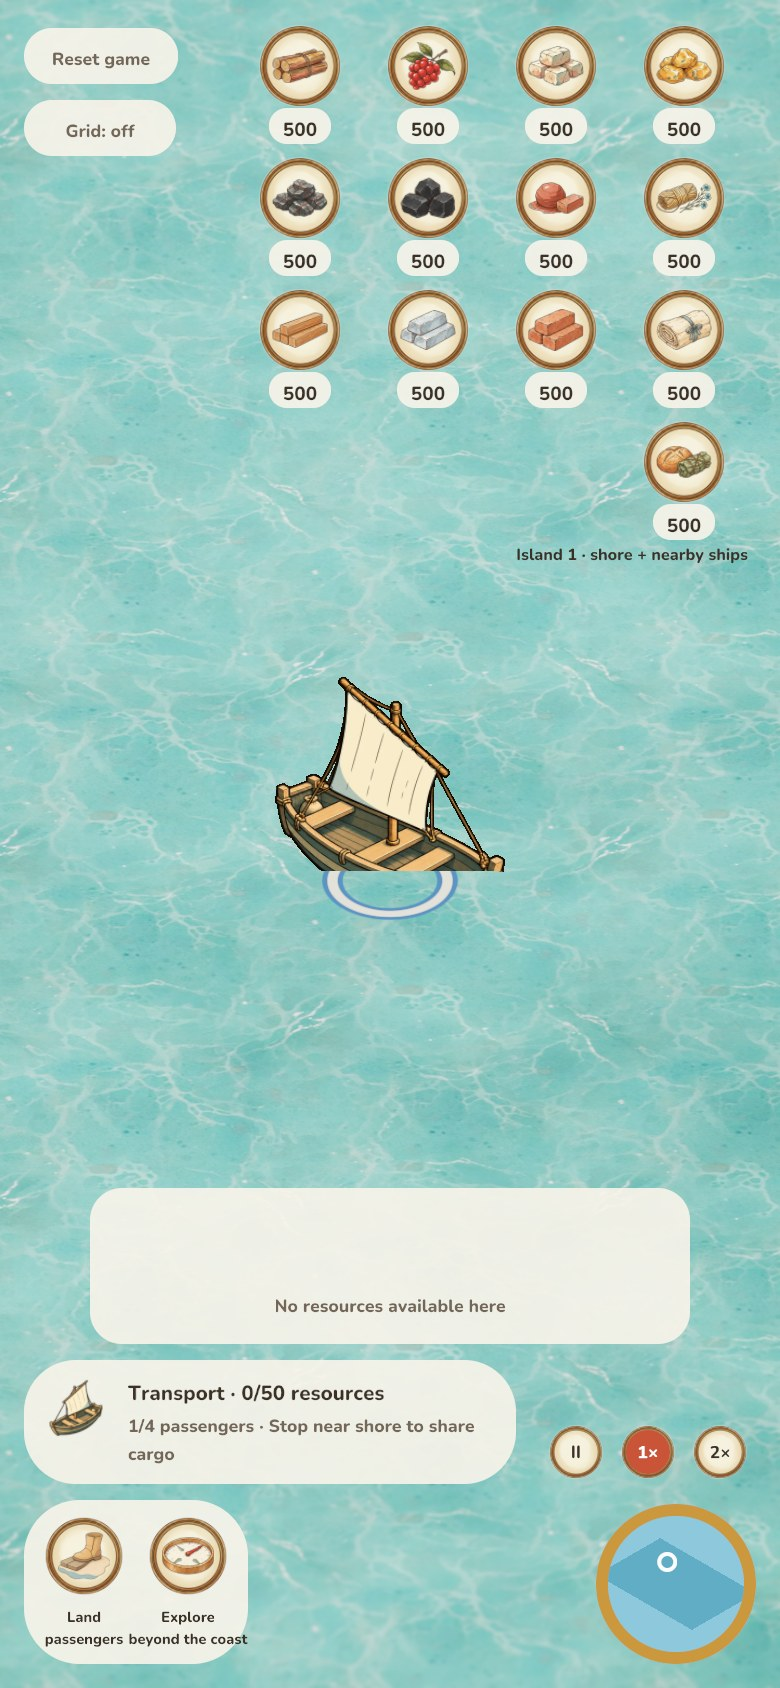
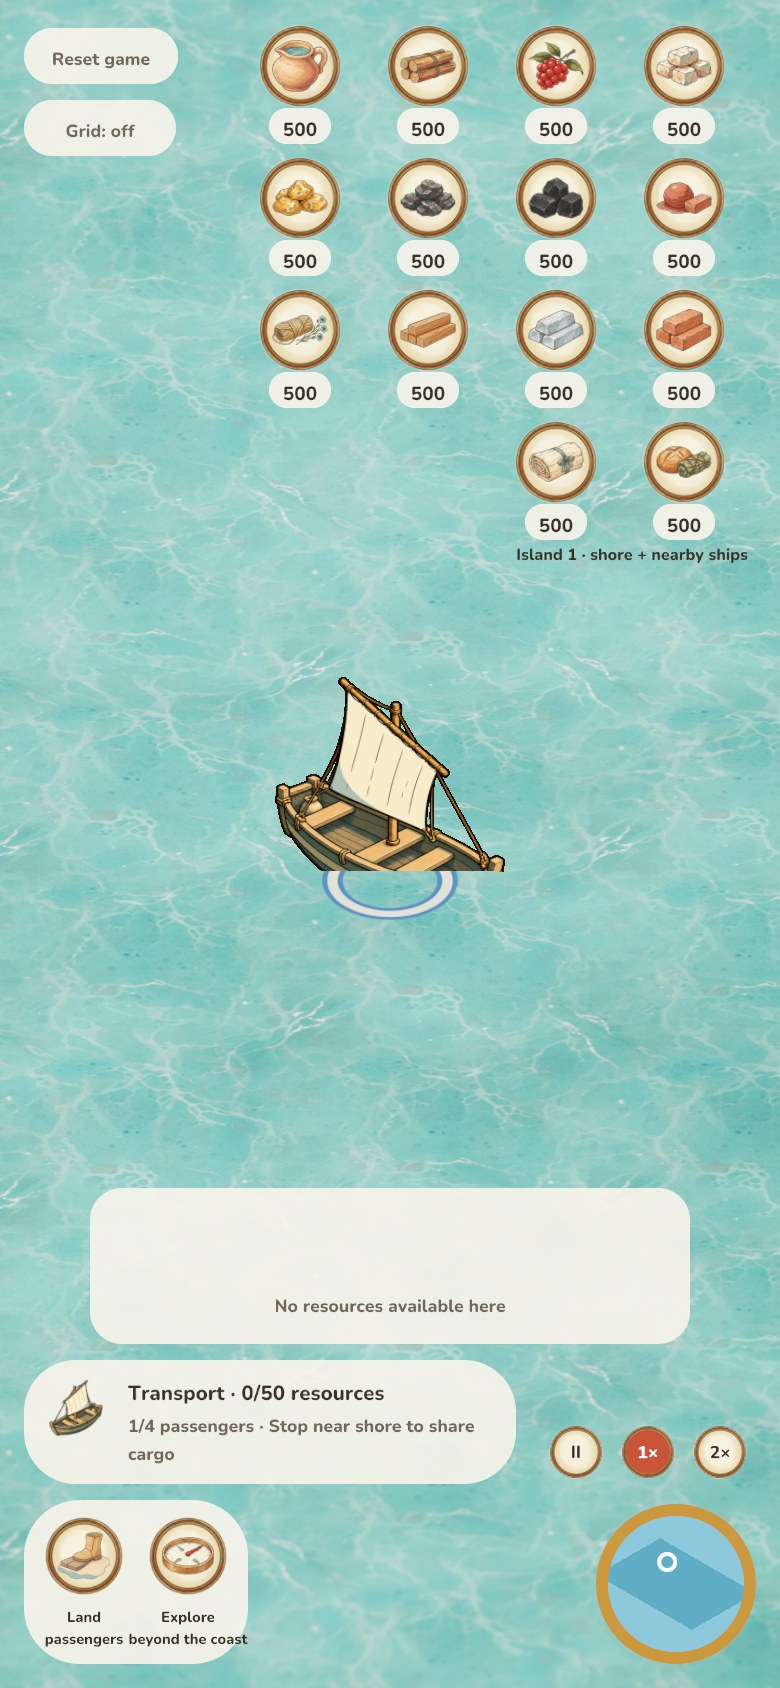
Verify refined menus with current water and HUD integration

diff --git a/OPEN_WORK.md b/OPEN_WORK.md
@@ -64,7 +64,7 @@ User explicitly authorized merging PR #130. Integrating master `faa4b04`, preser
 
 # Menu icon audit: implemented and verified
 
-- Follow-up (2026-10-06): user authorized showing and sequentially merging four simpler icons. Cargo is verified and prepared in this branch; earlier refinement PRs: none. All 289 tests, strict native/WASM lint, rebuilt current-master client, asset checks and six desktop/DPR-2 phone captures pass. Combined-preview scope and individual runtime status are recorded in [the refinement evidence](docs/verification/menu-icons/simplification/README.md) and [art ledger](assets/ui/sources/menu_icons/simplification/README.md). Production is tracked separately by the merge-triggered workflow.
+- Follow-up (2026-10-06): user authorized showing and sequentially merging the four simpler icons. Cargo [PR #137](https://github.com/koogle/age-of-agents/pull/137) integrates master `1a45e0d`, preserving riverbank water and the latest menu changes. All 293 tests, strict native/WASM lint, rebuilt client, 303-frame/icon checks and six fresh desktop/DPR-2 phone captures pass. The shared browser evidence previews all four candidate PNGs; each runtime replacement lands separately. [Evidence](docs/verification/menu-icons/simplification/README.md). Release uses the merge-triggered workflow.
 
 - User authorized dedicated menu icons and sequential PR merges. Stop #104, style enforcement #110 and all 18 individual art PRs #112–#129 are merged. Original renders, rejected drafts, prompts, request IDs and per-icon style comparisons are retained. [Audit/PR ledger](docs/MENU_ICON_AUDIT.md).
 - Integration [#107](https://github.com/koogle/age-of-agents/pull/107) wires all 20 audited fixes across resources, production/queues, specialist portraits, ship commands, categories, Back and info thumbnails. Master through `5a28839` is integrated, preserving approved productive-building availability and the granary bonus/description. This PR adds no gameplay, cost, unlock or save-model change.

diff --git a/docs/verification/menu-icons/simplification/README.md b/docs/verification/menu-icons/simplification/README.md
@@ -8,11 +8,11 @@ change. Sources and per-icon findings live in the
 
 ## Validation
 
-Base: master `79d5899` (preserves roads, refined wildlife and removed build-subcategory title cards). 289 Rust tests pass
-(13 server, 95 client, 181 domain; one existing manual benchmark ignored).
+Base: master `1a45e0d` (preserves roads, refined wildlife, removed build-subcategory title cards and riverbank water). 293 Rust tests pass
+(13 server, 96 client, 184 domain; one existing manual benchmark ignored).
 Formatting and strict native/all-target/all-feature and WASM Clippy pass. The
 client was rebuilt from this combined source; its WASM hash is recorded separately
-from the upstream artifact (the Rust source itself is unchanged by this PR). Asset checks cover all 302 world
+from the upstream artifact (the Rust source itself is unchanged by this PR). Asset checks cover all 303 world
 frames, field/transport checks, icon normalization, four RGBA PNG signatures,
 transparent corners and six release-verifier tests. [Checks/hashes](checks.json).
 
